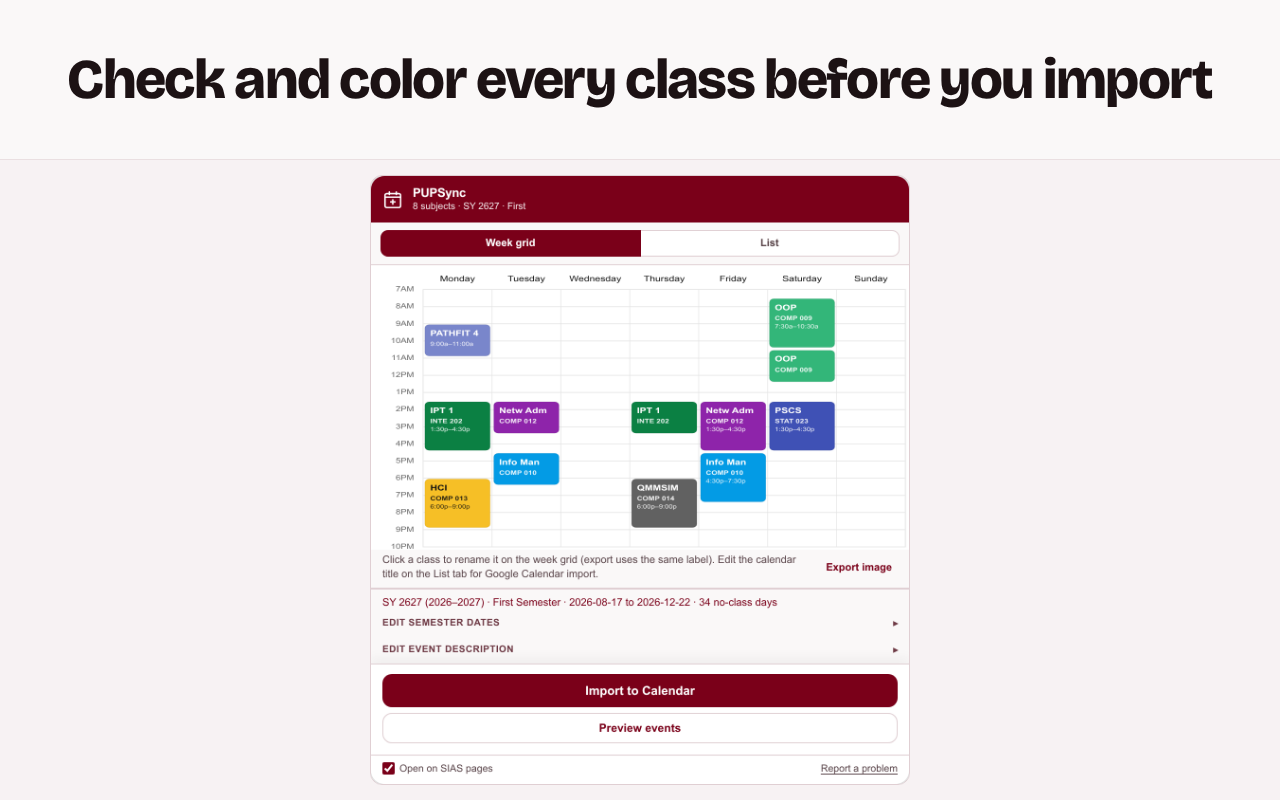
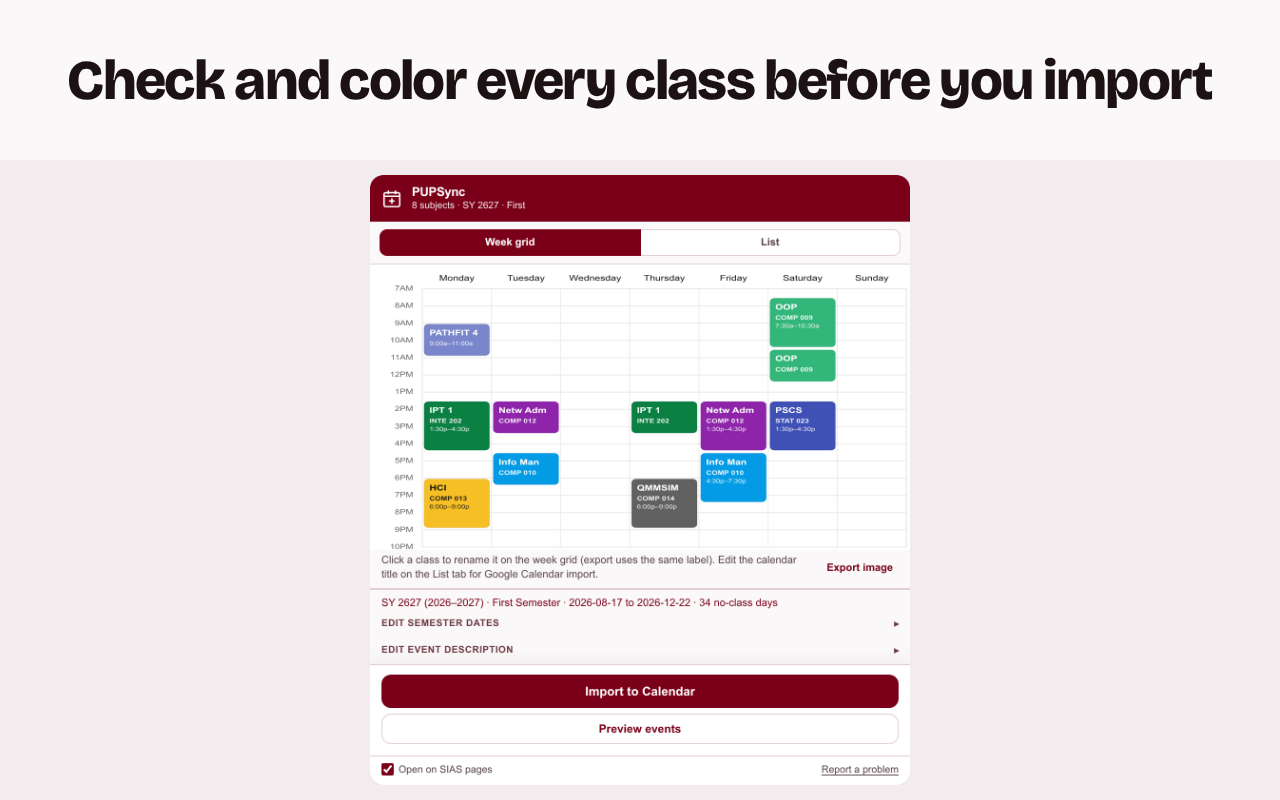
Homepage media: tight crops per step, list view for colors, preview beside Your data, ink body text, tone steps instead of outlines

diff --git a/site/index.html b/site/index.html
@@ -106,17 +106,17 @@
         <h2 id="how-title">How it works</h2>
         <ol class="steps">
           <li>
-            <figure class="shot"><img src="assets/product/popup-list.png" width="1136" height="1320" alt="PUPSync listing the eight subjects it found on the SIAS schedule page" loading="lazy" /></figure>
+            <figure class="shot"><img src="assets/product/sias-table-crop.png" width="1182" height="466" alt="The SIAS schedule table: the header row and the first three classes, with codes, descriptions and times" loading="lazy" /></figure>
             <h3>Open your SIAS schedule</h3>
             <p>Log in to SIAS as usual and open the Schedule page. PUPSync reads the classes on it.</p>
           </li>
           <li>
-            <figure class="shot"><img src="assets/product/popup-chip-edit.png" width="1136" height="1282" alt="Editing a class in PUPSync: picking a color and a short name for COMP 013" loading="lazy" /></figure>
+            <figure class="shot"><img src="assets/product/popup-chip-crop.png" width="464" height="482" alt="Editing COMP 013 in PUPSync: its day and time, the short name HCI, and a color" loading="lazy" /></figure>
             <h3>Check and color</h3>
             <p>See the week before anything is added. Rename a class or give it a color.</p>
           </li>
           <li>
-            <figure class="shot"><img src="assets/product/popup-import-success.png" width="1136" height="666" alt="PUPSync after an import, saying the classes are in Google Calendar" loading="lazy" /></figure>
+            <figure class="shot"><img src="assets/product/popup-success-crop.png" width="1136" height="264" alt="PUPSync after an import: Your classes are in Google Calendar, 12 added" loading="lazy" /></figure>
             <h3>Import</h3>
             <p>Sign in with Google once. Every class repeats weekly until the end of the sem.</p>
           </li>
@@ -129,18 +129,18 @@
       <div class="wrap">
         <h2 id="handles-title">What it handles that typing by hand doesn't</h2>
         <div class="claims">
-          <article class="claim">
-            <figure class="shot"><img src="assets/product/popup-term-line.png" width="1136" height="160" alt="PUPSync showing First Semester, August 17 to December 22, 2026, with 34 no-class days" loading="lazy" /></figure>
+          <article class="claim claim-term">
+            <figure class="shot"><img src="assets/product/popup-term-tight.png" width="1136" height="42" alt="PUPSync showing First Semester, August 17 to December 22, 2026, with 34 no-class days" loading="lazy" /></figure>
             <h3>Holidays and exam days skipped</h3>
             <p>PUPSync knows the term dates and leaves breaks, holidays and exam weeks empty.</p>
           </article>
-          <article class="claim">
-            <figure class="shot"><img src="assets/product/popup-reimport-unchanged.png" width="1136" height="594" alt="PUPSync after importing again, saying the calendar is already up to date and nothing changed" loading="lazy" /></figure>
+          <article class="claim claim-fit">
+            <figure class="shot"><img src="assets/product/popup-reimport-crop.png" width="1136" height="264" alt="PUPSync after importing again: Your Google Calendar is already up to date. Nothing changed." loading="lazy" /></figure>
             <h3>Import again, no duplicates</h3>
             <p>Changed sections or dropped a class? Import again. Your classes get updated, not copied.</p>
           </article>
           <article class="claim">
-            <figure class="shot"><img src="assets/product/popup-preview.png" width="1136" height="1570" alt="PUPSync preview listing each class event with its color before import" loading="lazy" /></figure>
+            <figure class="shot"><img src="assets/product/popup-list.png" width="1136" height="1320" alt="PUPSync list view: each subject with its color dot and the Google Calendar title it will get" loading="lazy" /></figure>
             <h3>Your colors and class names</h3>
             <p>Short names like HCI or Netw Adm, and a color per subject, carried into Google Calendar.</p>
           </article>
@@ -167,31 +167,37 @@
 
     <!-- 6. Your data -->
     <section class="band ground-surface" id="data" aria-labelledby="data-title">
-      <div class="wrap narrow">
-        <h2 id="data-title">Your data</h2>
-        <ul class="facts">
-          <li><strong>No PUPSync server.</strong> Everything runs in your browser. Your schedule goes straight to your own Google Calendar.</li>
-          <li><strong>It reads only the SIAS pages you open,</strong> on pup.edu.ph.</li>
-          <li><strong>It writes only the class events you confirm.</strong> It updates or removes only events it made, and never touches events you made yourself.</li>
-          <li><strong>The code is public</strong> on <a href="https://github.com/Troy-LL/Pupsync" rel="noopener">GitHub</a>.</li>
-        </ul>
-        <details class="scopes">
-          <summary>Google access and Chrome permissions</summary>
-          <dl>
-            <dt>Google OAuth scope</dt>
-            <dd><code>https://www.googleapis.com/auth/calendar.events</code></dd>
-            <dd>Used to add your classes as recurring events on your primary Google Calendar, and to update or remove only the events PUPSync made (each one carries a private PUPSync tag) when you import again, drop a class, or click Remove PUPSync classes. PUPSync asks for this only when you click Import. You can revoke it anytime in <a href="https://myaccount.google.com/permissions" rel="noopener">Google Account permissions</a>.</dd>
-            <dt>Sign-in token</dt>
-            <dd>Kept in Chrome session storage and cleared when you close the browser.</dd>
-            <dt>Host <code>*.pup.edu.ph</code></dt>
-            <dd>Read the SIAS schedule, grades and home pages you have open, and notice when a SIAS tab is open so the popup can open once.</dd>
-            <dt>Host <code>www.googleapis.com</code></dt>
-            <dd>Talk to the Google Calendar API over HTTPS.</dd>
-            <dt>identity, storage, scripting, activeTab</dt>
-            <dd>Sign in with Google, save your colors, class names and settings on your device, and read the SIAS tab you are on when you use the popup.</dd>
-          </dl>
-        </details>
-        <p>Full details are in the <a href="/privacy-policy.html">privacy policy</a>.</p>
+      <div class="wrap data-grid">
+        <div class="data-copy">
+          <h2 id="data-title">Your data</h2>
+          <ul class="facts">
+            <li><strong>No PUPSync server.</strong> Everything runs in your browser. Your schedule goes straight to your own Google Calendar.</li>
+            <li><strong>It reads only the SIAS pages you open,</strong> on pup.edu.ph.</li>
+            <li><strong>It writes only the class events you confirm.</strong> It updates or removes only events it made, and never touches events you made yourself.</li>
+            <li><strong>The code is public</strong> on <a href="https://github.com/Troy-LL/Pupsync" rel="noopener">GitHub</a>.</li>
+          </ul>
+          <details class="scopes">
+            <summary>Google access and Chrome permissions</summary>
+            <dl>
+              <dt>Google OAuth scope</dt>
+              <dd><code>https://www.googleapis.com/auth/calendar.events</code></dd>
+              <dd>Used to add your classes as recurring events on your primary Google Calendar, and to update or remove only the events PUPSync made (each one carries a private PUPSync tag) when you import again, drop a class, or click Remove PUPSync classes. PUPSync asks for this only when you click Import. You can revoke it anytime in <a href="https://myaccount.google.com/permissions" rel="noopener">Google Account permissions</a>.</dd>
+              <dt>Sign-in token</dt>
+              <dd>Kept in Chrome session storage and cleared when you close the browser.</dd>
+              <dt>Host <code>*.pup.edu.ph</code></dt>
+              <dd>Read the SIAS schedule, grades and home pages you have open, and notice when a SIAS tab is open so the popup can open once.</dd>
+              <dt>Host <code>www.googleapis.com</code></dt>
+              <dd>Talk to the Google Calendar API over HTTPS.</dd>
+              <dt>identity, storage, scripting, activeTab</dt>
+              <dd>Sign in with Google, save your colors, class names and settings on your device, and read the SIAS tab you are on when you use the popup.</dd>
+            </dl>
+          </details>
+          <p>Full details are in the <a href="/privacy-policy.html">privacy policy</a>.</p>
+        </div>
+        <figure class="shot data-shot">
+          <div class="data-frame"><img src="assets/product/popup-preview-crop.png" width="1136" height="380" alt="PUPSync preview listing every class event it will add, before anything is sent to Google Calendar" loading="lazy" /></div>
+          <figcaption>The preview shows every event before anything is added.</figcaption>
+        </figure>
       </div>
     </section>
 

diff --git a/site/styles.css b/site/styles.css
@@ -197,15 +197,19 @@ p {
   font-weight: 600;
 }
 
-/* Product media */
+/* Product media: white crops sit on a tone step, never inside a 1px line */
 .shot {
   margin: 0;
 }
 
-.shot img,
+.shot img {
+  background: var(--surface);
+  border-radius: var(--radius);
+}
+
 .hold-box {
   background: var(--surface);
-  border: 1px solid var(--line);
+  border: 2px dashed var(--line);
   border-radius: var(--radius);
 }
 
@@ -230,7 +234,6 @@ p {
 .lede {
   margin-top: 1.25rem;
   font-size: 1.1875rem;
-  color: var(--muted);
   max-width: 30rem;
 }
 
@@ -258,7 +261,6 @@ p {
 }
 
 .band-lede {
-  color: var(--muted);
   max-width: 40rem;
   margin-bottom: 2rem;
 }
@@ -271,10 +273,15 @@ p {
   align-items: start;
 }
 
+/* White SIAS crop on the white band: the band tone goes behind it */
+.ba-grid .shot {
+  background: var(--band);
+  border-radius: var(--radius);
+  padding: 16px;
+}
+
 .hold-box {
   aspect-ratio: 1768 / 1260;
-  border-style: dashed;
-  border-width: 2px;
   display: flex;
   flex-direction: column;
   align-items: center;
@@ -303,20 +310,20 @@ p {
 .steps .shot {
   aspect-ratio: 4 / 3;
   overflow: hidden;
-  border: 1px solid var(--line);
   border-radius: var(--radius);
   background: var(--surface);
+  padding: 16px;
+  display: flex;
+  align-items: center;
+  justify-content: center;
 }
 
+/* Each crop is only what its step names, shown as large as the box allows */
 .steps .shot img {
   width: 100%;
-  border: 0;
+  height: 100%;
+  object-fit: contain;
   border-radius: 0;
-}
-
-.steps p,
-.claim p {
-  color: var(--muted);
 }
 
 /* 4. Claims */
@@ -330,22 +337,40 @@ p {
 .claim .shot {
   height: 240px;
   overflow: hidden;
-  border: 1px solid var(--line);
   border-radius: var(--radius);
-  background: var(--surface);
+  background: var(--band);
+  padding: 16px 16px 0;
   display: flex;
   align-items: flex-start;
   justify-content: center;
 }
 
 .claim .shot img {
-  border: 0;
-  border-radius: 0;
+  border-radius: var(--radius) var(--radius) 0 0;
   width: 100%;
 }
 
-.claim:first-child .shot {
+/* Crops that are whole: centred, fully inside the tone box */
+.claim-term .shot,
+.claim-fit .shot {
+  padding: 16px;
   align-items: center;
+}
+
+.claim-fit .shot img {
+  width: auto;
+  max-width: 100%;
+  max-height: 100%;
+  border-radius: var(--radius);
+}
+
+/* Holidays tile: just the term line, about a third of the other tiles */
+.claim-term .shot {
+  height: 80px;
+}
+
+.claim-term .shot img {
+  border-radius: 6px;
 }
 
 /* 5. GWA */
@@ -412,8 +437,25 @@ p {
 
 .scopes dd {
   margin: 0.25rem 0 0;
-  color: var(--muted);
   font-size: 15px;
+}
+
+/* Data: facts on the left, the preview on the right at desktop widths */
+.data-grid {
+  display: grid;
+  grid-template-columns: minmax(0, 1fr) minmax(0, 30rem);
+  gap: clamp(2rem, 5vw, 4rem);
+  align-items: center;
+}
+
+.data-frame {
+  background: var(--band);
+  border-radius: var(--radius);
+  padding: 16px;
+}
+
+.data-frame img {
+  width: 100%;
 }
 
 /* 7. FAQ */
@@ -424,7 +466,6 @@ p {
 
 .faq details p {
   margin: 0.6rem 0 0;
-  color: var(--muted);
 }
 
 /* 8. Close */
@@ -458,6 +499,14 @@ p {
   .gwa-shot {
     max-width: 18rem;
   }
+
+  .data-grid {
+    grid-template-columns: minmax(0, 1fr);
+  }
+
+  .data-shot {
+    max-width: 30rem;
+  }
 }
 
 /* Phone */
@@ -478,7 +527,6 @@ p {
   }
 
   .hero-media {
-    border: 1px solid var(--line);
     background: var(--surface);
   }
 
@@ -489,5 +537,9 @@ p {
 
   .claim .shot {
     height: 200px;
+  }
+
+  .claim-term .shot {
+    height: auto;
   }
 }

diff --git a/store/screenshots/HOLD.md b/store/screenshots/HOLD.md
@@ -14,7 +14,7 @@ except the three on hold.
 Raw captures go in `_raw/` and `store/tools/render-assets.mjs` frames them. Shots 1, 3 and 4 have to show the real Google Calendar with the fake Juan Dela
 Cruz schedule imported. Do not redraw Google's UI. Capture steps are in
 `pupsync/dev/capture/README.md`. Once captured, frame them the same way (160px
-caption band on #faf8f8, Bricolage 800 at 56px, product on #f7f2f3).
+caption band on #faf8f8, Bricolage 800 at 56px, product on #f3ecee, no outlines).
 
 The old live shots had a real first name and GWA on them, so they are no
 longer in the repo. Don't reuse them.
